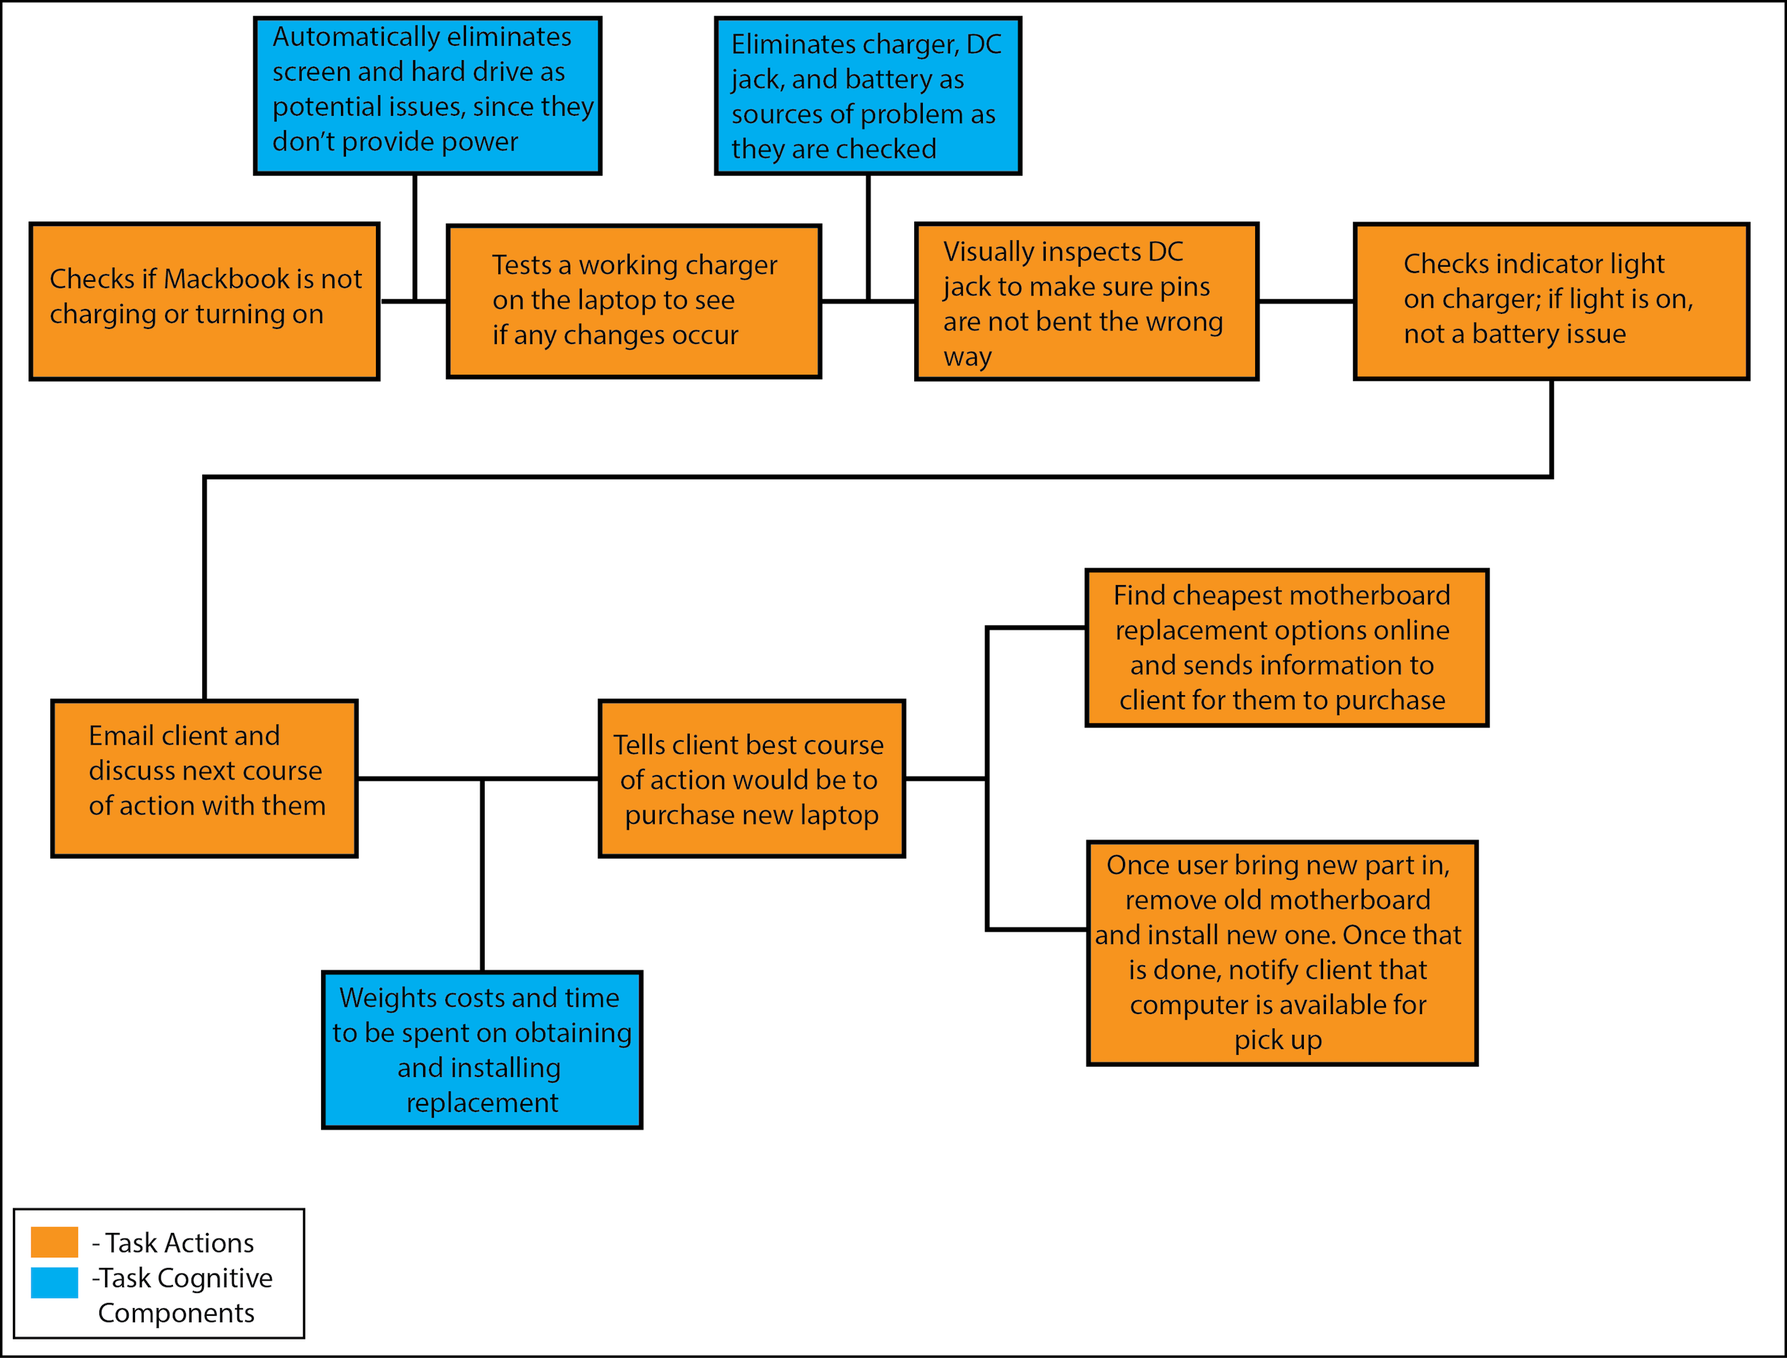
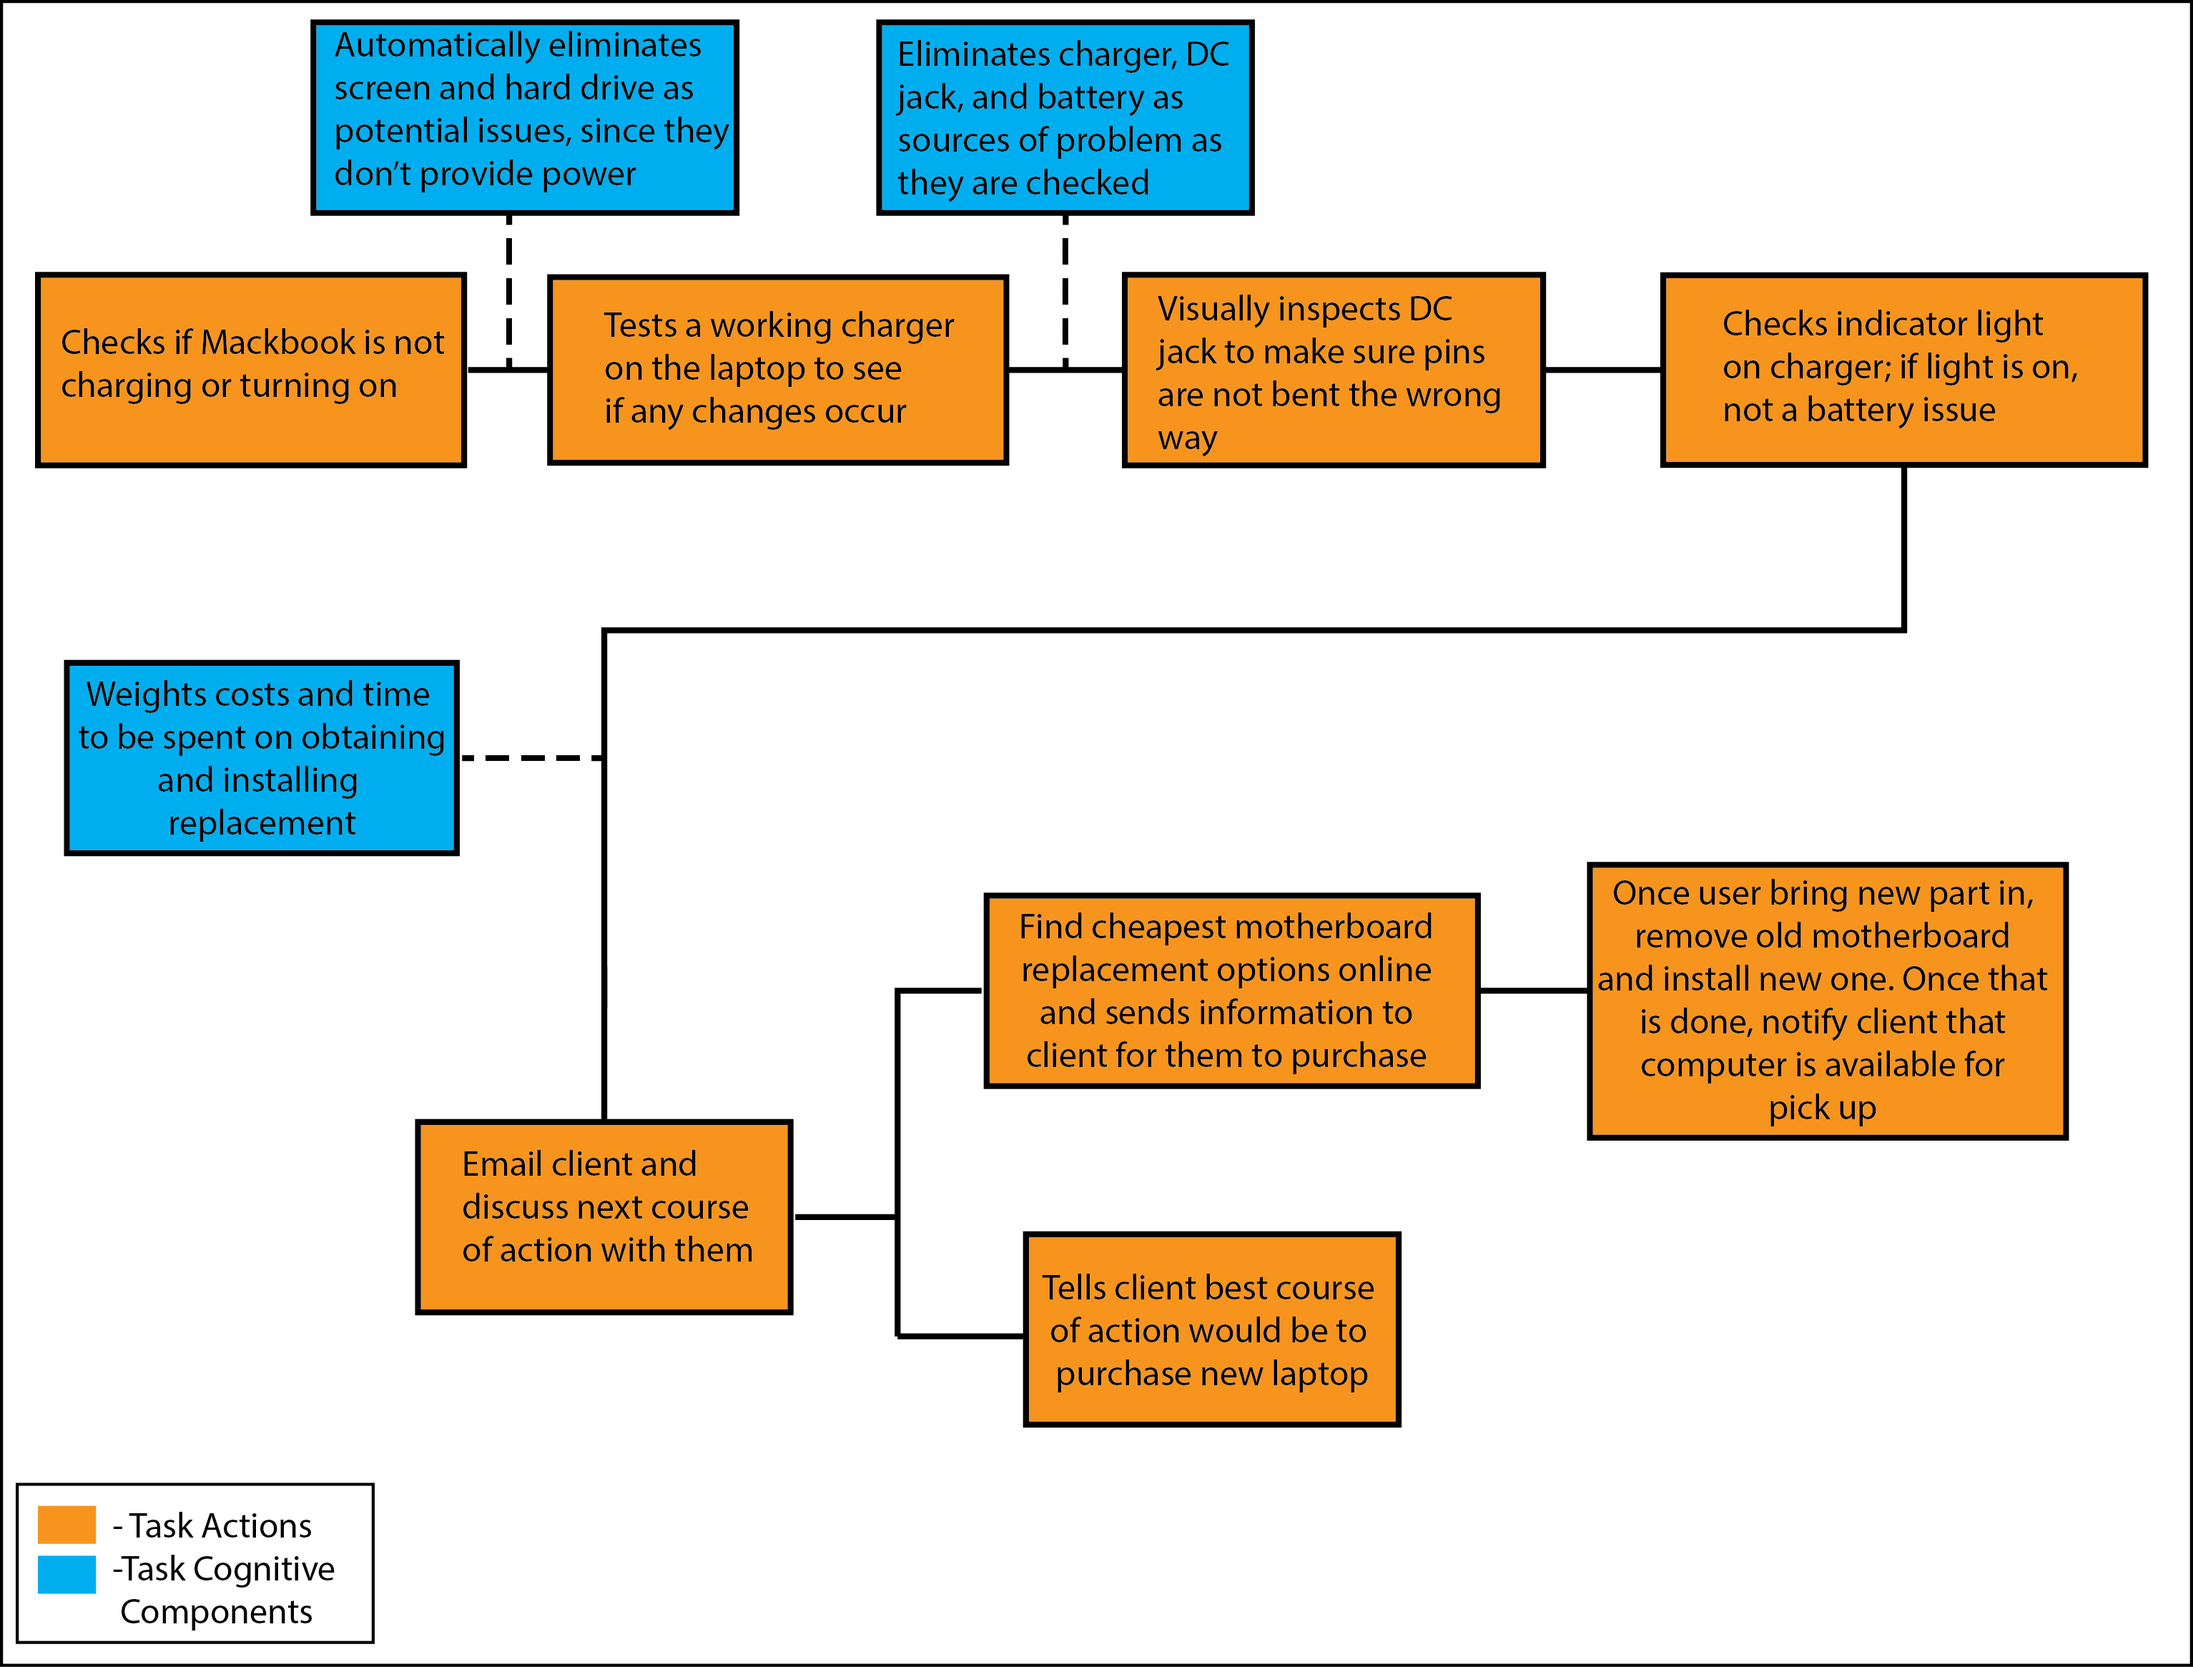
design process update

Changed region(s): [[0.0, 0.3418, 0.9672, 0.8699]]

diff --git a/index.html b/index.html
@@ -175,7 +175,7 @@
                     </div>
                     <div id="collapse1" class="panel-collapse collapse in">
                       <div class="panel-body">
-                      Assess the strengths and weaknesses of competitors' products relative to yours, in order to make recommendations for improvement to you. This one was done for fictional client Alfa Romeo Automobiles, comparatively assessing their website next to those of the Audi, Porsche, and Lotus companies.
+                      Assess the strengths and weaknesses of competitors' products relative to yours, in order to make recommendations for improvement to your product. This one was done for theoretical client Alfa Romeo Automobiles, comparatively assessing their website next to those of the Audi, Porsche, and Lotus companies.
                       <div style="height:20px; clear:both"></div>
                       <img src="img/process/comp_analysis.png" class="img-responsive" alt=""><br>
                       </div>
@@ -185,12 +185,12 @@
                     <div class="panel-heading">
                       <h4 class="panel-title">
                         <a data-toggle="collapse" data-parent="#accordion" href="#collapse2">
-                        Task Analysis (redo final steps, accidentally scrambled)</a>
+                        Task Analysis</a>
                       </h4>
                     </div>
                     <div id="collapse2" class="panel-collapse collapse">
                       <div class="panel-body">
-                      Identify a user's thought process and desired reactions toward a given task, to gain insight into how a user accomplishes that said task. This one was done for fictional client Tufts Technology Services, focusing on how a computer repair technician goes about determining if an Apple Macbook's technical issues (not being able to turn on are from a faulty motherboard, and then deciding how to proceed with the client on the matter.
+                      Identify a user's thought process and desired reactions toward a given task, to gain insight into how a user accomplishes that said task. This one was done for theoretical client Tufts Technology Services, focusing on how a computer repair technician goes about determining if an Apple Macbook's technical issues (not being able to turn on are from a faulty motherboard, and then deciding how to proceed with the client on the matter.
                       <div style="height:20px; clear:both"></div>
                       <img src="img/process/task_analysis.png" class="img-responsive" alt=""><br>
                       </div>
@@ -205,7 +205,7 @@
                     </div>
                     <div id="collapse3" class="panel-collapse collapse">
                       <div class="panel-body">
-                      Create fictional characters that represent different user types that might use your product, to help to guide decisions on designing it by considering potential users' goals, desires, and limitations. This one was done for fictional client The Salomon Group, a sports company who wanted to make an app for skiers, incorporating functionalities determined to be of high value to the target demographic.
+                      Create fictional characters that represent different user types that might use your product, to help to guide decisions on designing it by considering potential users' goals, desires, and limitations. This one was done for theoretical client The Salomon Group, a sports company who wanted to make an app for skiers, incorporating functionalities determined to be of high value to the target demographic.
                       <div style="height:20px; clear:both"></div>
                       <img src="img/process/personas_marcos.png" class="img-responsive" alt=""><br>
                       <img src="img/process/personas_marsha.png" class="img-responsive" alt="">
@@ -236,10 +236,7 @@
                     </div>
                     <div id="collapse5" class="panel-collapse collapse">
                       <div class="panel-body">
-                      Lorem ipsum dolor sit amet, consectetur adipisicing elit,
-                      sed do eiusmod tempor incididunt ut labore et dolore magna aliqua. Ut enim ad
-                      minim veniam, quis nostrud exercitation ullamco laboris nisi ut aliquip ex ea
-                      commodo consequat.
+                      Visually communicate design concepts with users, team members, and clients to generate feedback. I generated these wireframes for a web programming course group project, where my team and I were designing a prototype for a web gaming application. These wireframes in particular were early on in the team's brainstorming sessions; I drew these up to help prompt discussion about possible designs.
                       <div style="height:20px; clear:both"></div>
                       <img src="img/process/wireframes.jpg" class="img-responsive img-centered" alt="">
                       </div>
@@ -249,15 +246,12 @@
                     <div class="panel-heading">
                       <h4 class="panel-title">
                         <a data-toggle="collapse" data-parent="#accordion" href="#collapse6">
-                        Site/User Flow</a>
+                        User Flows</a>
                       </h4>
                     </div>
                     <div id="collapse6" class="panel-collapse collapse">
                       <div class="panel-body">
-                      Lorem ipsum dolor sit amet, consectetur adipisicing elit,
-                      sed do eiusmod tempor incididunt ut labore et dolore magna aliqua. Ut enim ad
-                      minim veniam, quis nostrud exercitation ullamco laboris nisi ut aliquip ex ea
-                      commodo consequat.
+                      User flows help with understanding how a proposed design interacts with user behavior, helping visualize the details and specifics of different interactions. Insights from this help set up planning out the mockups/prototypes that are to follow in the design process. I created this user flow diagram for theoretical client Me-2-You, a two-way clothing donation platform that allowed donors and recipients to interact with each other. This allowed my team and I to consider potential user interactions with our proposed website designs, and refine them from there.
                       <div style="height:20px; clear:both"></div>
                       <img src="img/process/UIstructure.png" class="img-responsive" alt="">
                       </div>
@@ -267,15 +261,12 @@
                     <div class="panel-heading">
                       <h4 class="panel-title">
                         <a data-toggle="collapse" data-parent="#accordion" href="#collapse7">
-                        Hi-Fi Mockups/Prototypes</a>
+                        Mockups/Prototypes</a>
                       </h4>
                     </div>
                     <div id="collapse7" class="panel-collapse collapse">
                       <div class="panel-body">
-                      Lorem ipsum dolor sit amet, consectetur adipisicing elit,
-                      sed do eiusmod tempor incididunt ut labore et dolore magna aliqua. Ut enim ad
-                      minim veniam, quis nostrud exercitation ullamco laboris nisi ut aliquip ex ea
-                      commodo consequat.
+                       Mockups and prototypes enable designers to uncover usability issues and validate design decisions based on actual user reactions. This allows for easily distributing and observing how well a product will be received before building the full-scale product. I constructed this high fidelity mockup at a hackathon at Tufts University, the Women in Computer Science (WiCS) group at Tufts; they were looking for a website design that could help promote their mission to empower women in the field of computer science.
                       <div style="height:20px; clear:both"></div>
                       <img src="img/process/mockproto.png" class="img-responsive" alt="">
                       </div>
